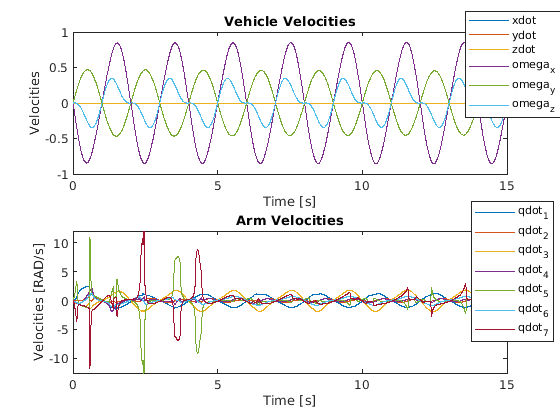
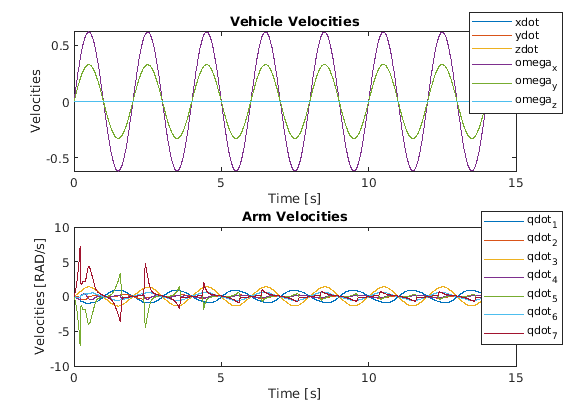
changed images ex6

diff --git a/cooperative_robotics/MainDexrov_ex6.m b/cooperative_robotics/MainDexrov_ex6.m
@@ -173,11 +173,11 @@ for t = 0:deltat:end_time
     
     %   Exercise 6 add sinusiodal disturbance to the vehicle positions
     %	Adding the disturbances
-    disturb = [0 0.0 0]';
+    disturb = [0 -0.0 0]';
     disturb_ang = [0 1 0]';
-    disturb_ang = disturb_ang*0.2*sin(0.5*t*2*pi);
-    uvms.p_dot(1:3) = uvms.wTv(1:3,1:3)*disturb;
-    uvms.p_dot(4:6) = uvms.wTv(1:3,1:3)*disturb_ang;
+    disturb_ang = disturb_ang*0.7*sin(0.5*t*2*pi);
+    uvms.p_dot(1:3) = uvms.vTw(1:3,1:3)*disturb;
+    uvms.p_dot(4:6) = uvms.vTw(1:3,1:3)*disturb_ang;
     
     % beware: p_dot should be projected on <v>
     uvms.p = integrate_vehicle(uvms.p, uvms.p_dot, deltat);

diff --git a/cooperative_robotics/ComputeTaskReferences.m b/cooperative_robotics/ComputeTaskReferences.m
@@ -3,10 +3,10 @@ function [uvms] = ComputeTaskReferences(uvms, mission)
 
 % reference for tool-frame position control task
 [ang, lin] = CartError(uvms.vTg , uvms.vTt);
-uvms.xdot.t = 0.2 * [ang; lin];
+uvms.xdot.t = 0.5 * [ang; lin];
 % limit the requested velocities...
-uvms.xdot.t(1:3) = Saturate(uvms.xdot.t(1:3), 0.2);
-uvms.xdot.t(4:6) = Saturate(uvms.xdot.t(4:6), 0.2);
+uvms.xdot.t(1:3) = Saturate(uvms.xdot.t(1:3), 0.5);
+uvms.xdot.t(4:6) = Saturate(uvms.xdot.t(4:6), 0.5);
 
 %%   Vehicle horizontal attitude
 % xdot = lambda * (x_reference - x)
